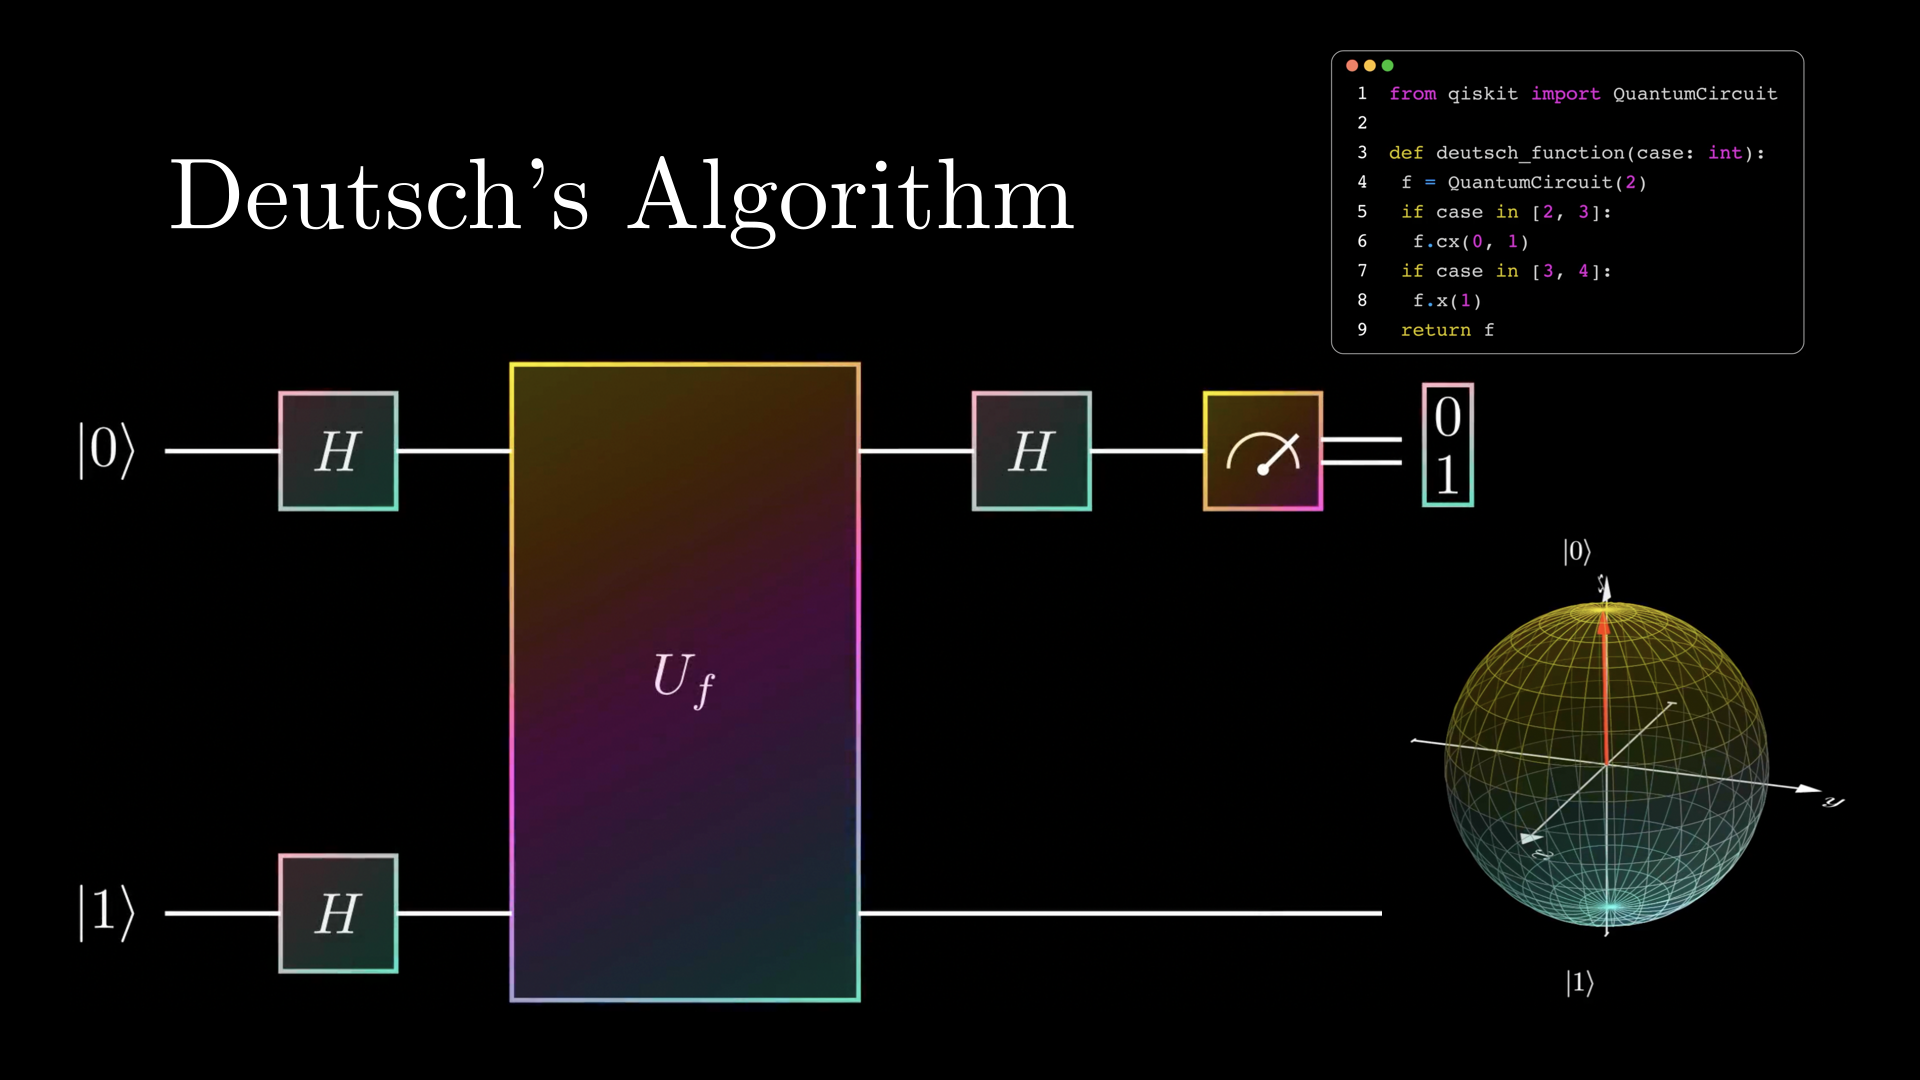
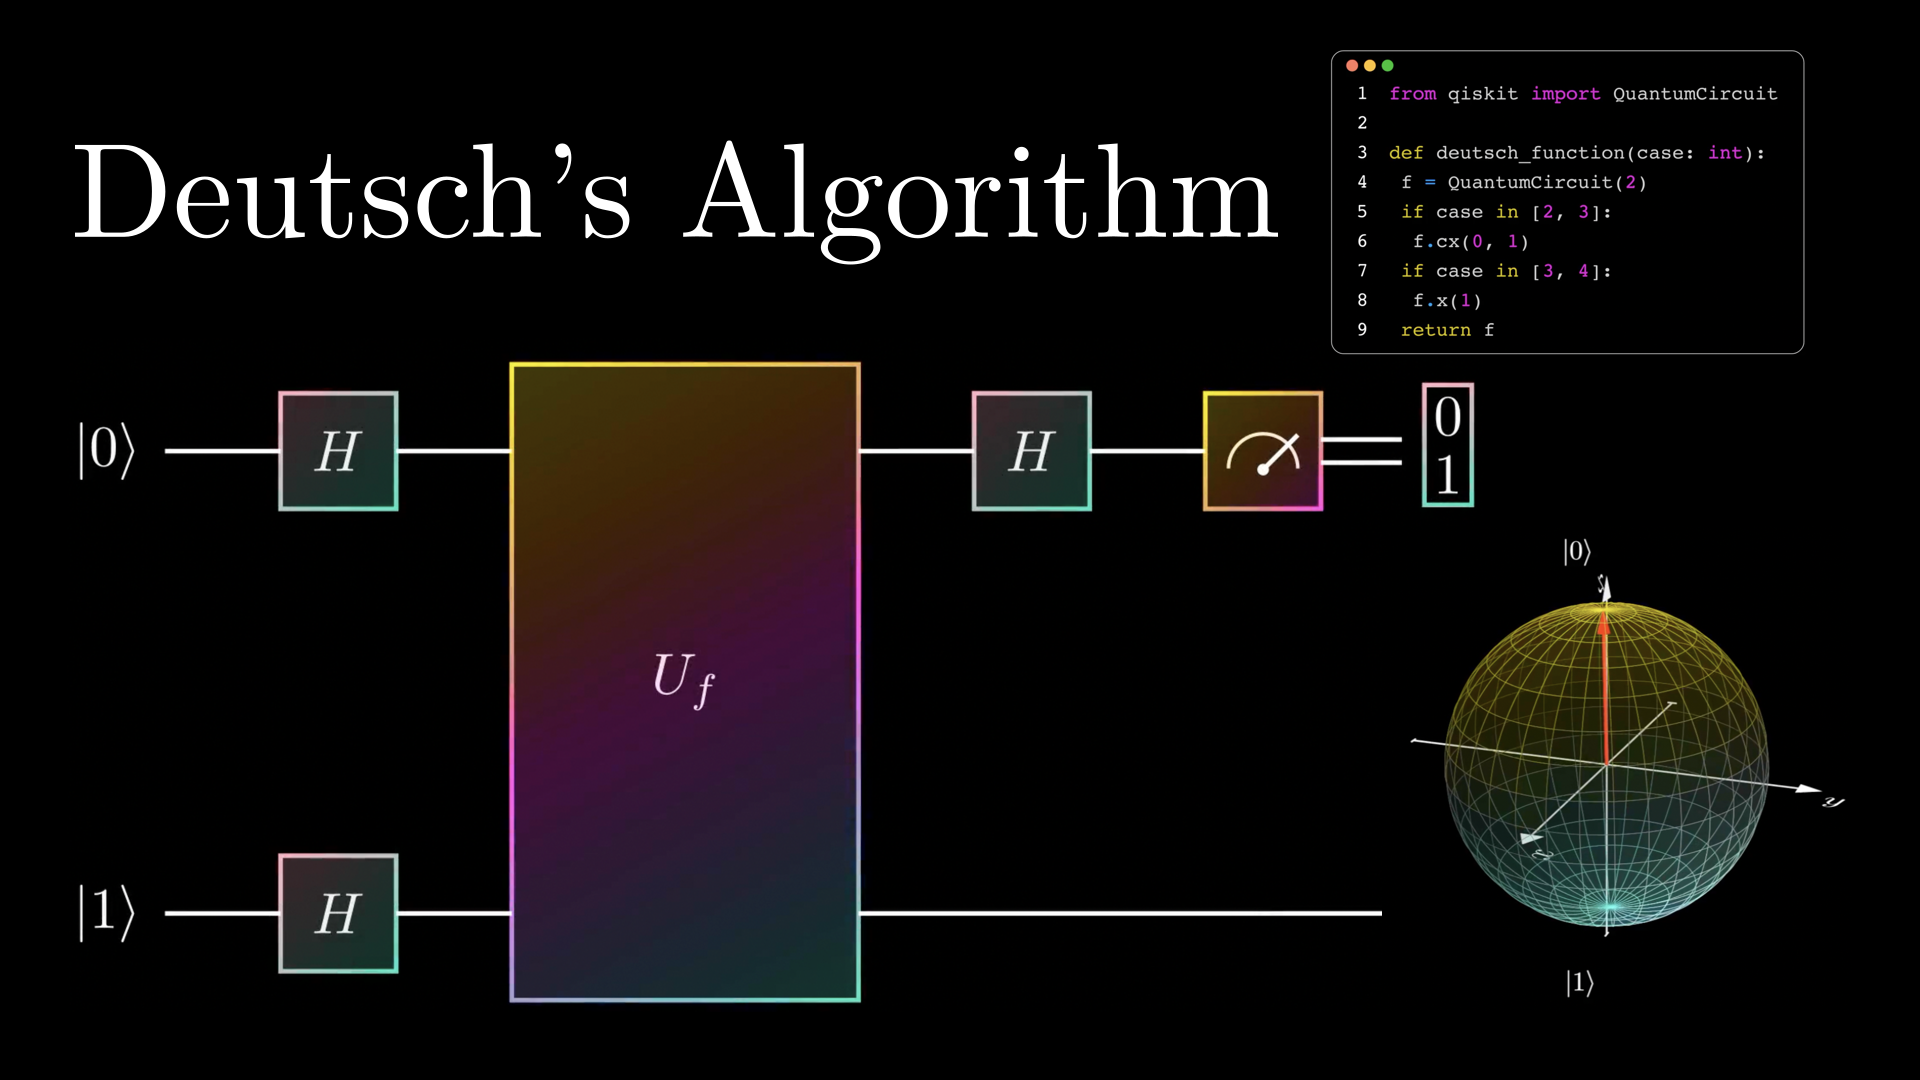
deutsch's algorithm final

Changed region(s): [[0.0312, 0.1222, 0.6875, 0.2444]]

diff --git a/quantum_computing/deutsch_jozsa.py b/quantum_computing/deutsch_jozsa.py
@@ -2296,7 +2296,7 @@ class DeutschJozsaAlgo(Scene):
 class Thumbnail(Scene):
     def construct(self):
         
-        deutsch = Tex(r" Deutsch's Algorithm ").scale(1.5).move_to([-2.5, 2.5, 0])
+        deutsch = Tex(r" Deutsch's Algorithm ").scale(2).move_to([-2.1, 2.5, 0])
 
         code = ImageMobject("/Users/devaldeliwala/Desktop/screenshot0.png").scale(0.25).move_to([4.5,2.5,0])
         bloch = ImageMobject("/Users/devaldeliwala/Desktop/screenshot2.png").scale(0.35).to_edge(DR)
